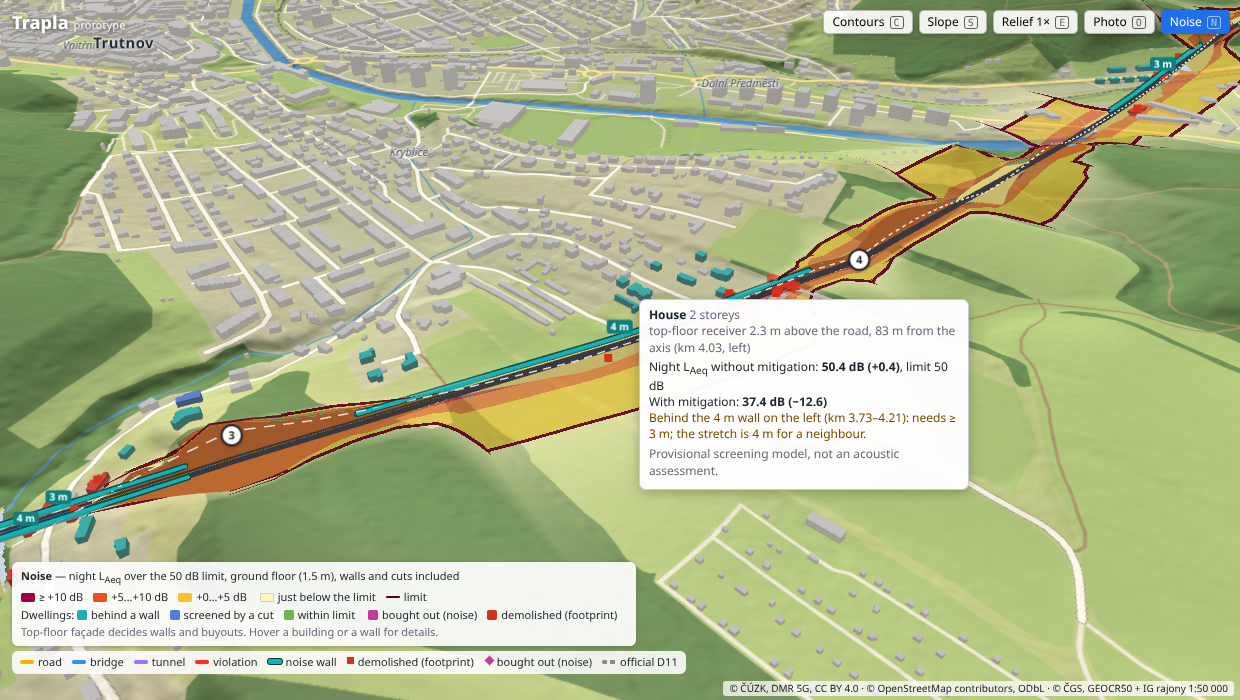
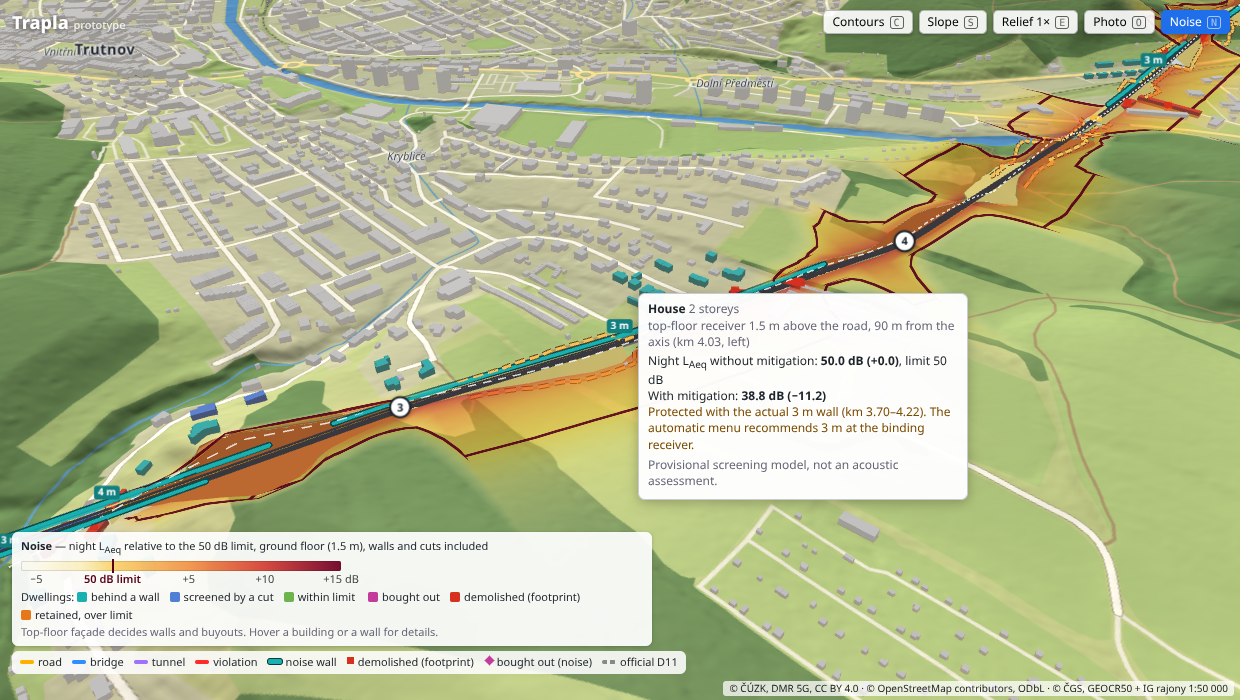
Noise view: continuous colour ramp relative to the limit (transparent −6 dB → yellow → orange → deep red +15 dB, per pixel) with one crisp limit contour; gradient legend bar with dB ticks; neutral help wording; screenshots 28–29

diff --git a/src/render/noise.ts b/src/render/noise.ts
@@ -1,5 +1,5 @@
-// Noise view (key N): the road's ground-floor noise footprint as a translucent band in steps over the
-// limit, dwellings coloured by their noise outcome, wall height labels, a legend, and hover details.
+// Noise view (key N): the road's ground-floor noise footprint as a translucent band, continuously shaded
+// by the level relative to the limit (with one crisp contour on the limit itself), dwellings coloured by their noise outcome, wall height labels, a legend, and hover details.
 // Everything comes from Result.noise (computed in the worker by the cost model's own calculator);
 // the main thread only draws. Hover over a noise wall works with the view off too.
 
@@ -15,9 +15,15 @@ import type { View } from './view';
 
 /** building colours (sRGB) by noise outcome; walls / buyouts / demolitions match their map symbols */
 export const NOISE_COLORS = { wall: 0x18b0b0, cut: 0x4f7fd6, ok: 0x6fb34f, bought: 0xc43c9b, demolished: 0xd7301f };
-/** band steps, dB over the limit (ground-floor receivers), and how far below the limit it fades out */
-const STEPS: [number, string][] = [[10, '#9e0142'], [5, '#e8501e'], [0, '#f8c22c']];
-const FADE = { db: 6, color: '#fff4c2' };
+/** band colour ramp: [dB relative to the limit (ground-floor receivers), colour, opacity], interpolated
+ * per pixel; transparent at the first stop (where the worker's footprint fades out), clamped past the last */
+const RAMP: [number, string, number][] = [
+  [-6, '#fff4c2', 0], [-2, '#fbe27a', 0.32], [0, '#f8c22c', 0.48], [5, '#ee7a1c', 0.56], [10, '#d0281e', 0.62], [15, '#6e0026', 0.7],
+];
+/** limit contour colour */
+const LIMIT_LINE = '#590019';
+/** legend tick positions, dB relative to the limit */
+const TICKS = [-5, 0, 5, 10, 15];
 
 // raw sRGB numbers: the ShaderMaterial writes them to the canvas without colour management
 const glsl = (c: string) => { const k = new THREE.Color().setStyle(c, THREE.LinearSRGBColorSpace); return `vec3(${k.r.toFixed(3)}, ${k.g.toFixed(3)}, ${k.b.toFixed(3)})`; };
@@ -121,19 +127,23 @@ export class NoiseLayer {
     g.setAttribute('db', new THREE.BufferAttribute(db, 1));
     g.setIndex(idx);
     g.computeBoundingSphere();
-    const steps = STEPS.map(([t, c]) => `if (vDb >= ${t.toFixed(1)}) c = vec4(${glsl(c)}, 0.55);`).join('\n        else ');
+    const stop = (k: number) => `vec4(${glsl(RAMP[k][1])}, ${RAMP[k][2].toFixed(3)})`;
+    const ramp = RAMP.slice(1).map(([t], k) => `if (d < ${t.toFixed(1)}) return mix(${stop(k)}, ${stop(k + 1)}, (d - ${RAMP[k][0].toFixed(1)}) / ${(t - RAMP[k][0]).toFixed(1)});`)
+      .join('\n          ');
     const mat = new THREE.ShaderMaterial({
       vertexShader: `attribute float db; varying float vDb;
         void main() { vDb = db; gl_Position = projectionMatrix * modelViewMatrix * vec4(position, 1.0); }`,
-      // colour steps of the interpolated level; a dark line on the limit itself
+      // continuous ramp of the per-pixel interpolated level; one anti-aliased dark line on the limit itself
       fragmentShader: `varying float vDb;
+        vec4 ramp(float d) {
+          ${ramp}
+          return ${stop(RAMP.length - 1)};
+        }
         void main() {
-          vec4 c;
-          ${steps}
-          else if (vDb >= -${FADE.db.toFixed(1)}) c = vec4(${glsl(FADE.color)}, 0.5 * (1.0 + vDb / ${FADE.db.toFixed(1)}));
-          else discard;
+          if (vDb < ${RAMP[0][0].toFixed(1)}) discard;
+          vec4 c = ramp(vDb);
           float w = abs(vDb) / max(fwidth(vDb), 1e-4);
-          if (w < 1.2) c = vec4(0.35, 0.0, 0.1, 0.9);
+          c = mix(c, vec4(${glsl(LIMIT_LINE)}, 0.9), 1.0 - smoothstep(0.7, 1.4, w));
           gl_FragColor = c;
         }`,
       transparent: true, depthWrite: false, side: THREE.DoubleSide,
@@ -150,10 +160,14 @@ export class NoiseLayer {
     const period = fp?.controlling ?? 'night', limit = fp?.limit ?? NOISE.limitNightDb;
     const sw = (c: string, extra = '') => `<i style="background:${c};${extra}"></i>`;
     const b = (c: number, label: string) => `<span>${sw(`#${c.toString(16).padStart(6, '0')}`, 'width:10px;height:10px')}${label}</span>`;
+    // the bar shows the ramp as drawn over a light map: colour at its opacity over white
+    const lo = RAMP[0][0], hi = RAMP[RAMP.length - 1][0], at = (t: number) => ((t - lo) / (hi - lo)) * 100;
+    const rgba = (c: string, a: number) => { const k = new THREE.Color().setStyle(c, THREE.LinearSRGBColorSpace); return `rgba(${Math.round(k.r * 255)},${Math.round(k.g * 255)},${Math.round(k.b * 255)},${a})`; };
+    const bar = `linear-gradient(to right, ${RAMP.map(([t, c, a]) => `${rgba(c, Math.min(1, a * 1.35))} ${at(t).toFixed(1)}%`).join(', ')})`;
+    const ticks = TICKS.map((t) => `<em style="left:${at(t).toFixed(1)}%"${t === 0 ? ' class="lim"' : ''}>${t === 0 ? `${limit} dB limit` : `${t > 0 ? '+' : '−'}${Math.abs(t)}${t === hi ? ' dB' : ''}`}</em>`).join('');
     this.legend.innerHTML = `
-      <div><b>Noise</b> — ${period} L<sub>Aeq</sub> over the ${limit} dB limit, ground floor (1.5 m), walls and cuts included</div>
-      <div>${STEPS.map(([t, c], k) => `<span>${sw(c)}${k ? `+${t}…+${STEPS[k - 1][0]}` : `≥ +${t}`} dB</span>`).join('')}
-        <span>${sw(FADE.color, 'box-shadow:inset 0 0 0 1px #d8cf9c')}just below the limit</span><span><i class="lim"></i>limit</span></div>
+      <div><b>Noise</b> — ${period} L<sub>Aeq</sub> relative to the ${limit} dB limit, ground floor (1.5 m), walls and cuts included</div>
+      <div class="ramp"><div class="bar" style="background:${bar}"><u style="left:${at(0).toFixed(1)}%"></u></div><div class="ticks">${ticks}</div></div>
       <div>Dwellings: ${b(NOISE_COLORS.wall, 'behind a wall')}${b(NOISE_COLORS.cut, 'screened by a cut')}${b(NOISE_COLORS.ok, 'within limit')}
         ${b(NOISE_COLORS.bought, 'bought out')}${b(NOISE_COLORS.demolished, 'demolished (footprint)')}${b(0xe87718, 'retained, over limit')}</div>
       <div class="hint">Top-floor façade decides walls and buyouts. Hover a building or a wall for details.</div>`;

diff --git a/src/ui/hud.ts b/src/ui/hud.ts
@@ -114,7 +114,7 @@ export class Hud {
           <li><b>Grade line Auto</b>: coarse-to-fine dynamic programming on ~250 m knots seeks a low-cost profile with gradient/curve limits, crossing clearances and cut/fill balancing; it is an approximation, not a guaranteed global optimum. <b>Manual</b> freezes the current grade line. Dragging a profile point or double-clicking to add one also switches to Manual; right-click deletes, wheel zooms. Auto replaces manual vertical edits but keeps structure overrides.</li>
           <li>Select a profile stretch, then <kbd>B</kbd> bridge, <kbd>T</kbd> tunnel, <kbd>E</kbd> earthwork, <kbd>C</kbd> clear override (automatic choice). Repaint any subrange to edit or erase it; Undo restores it. Manual ranges stay at the same kilometre positions when you reroute. Coloured dotted map overlays and labelled profile marks show them; invalid choices remain visible and produce violations.</li>
           <li>Why is a stretch expensive? <b>Hover</b> the profile for the cost split there; <b>drag</b> in the cost strip (or <kbd>Shift</kbd>+drag) to select a stretch, <b>click</b> a curve / tangent in the band above it; <kbd>Esc</kbd> = whole route</li>
-          <li>Who gets a wall, who is bought out? <kbd>N</kbd> = noise view: the road's noise over the limit, dwellings coloured by outcome; <b>hover</b> a building or wall for the levels and the reason</li>
+          <li>Noise protection: <kbd>N</kbd> = noise view: the road's noise level relative to the limit, dwellings coloured by outcome (wall, cut, bought out); <b>hover</b> a building or wall for the levels and the reason</li>
         </ul>
         <label class="exag">Vertical exaggeration <select id="exag"><option value="1">1×</option><option value="1.5">1.5×</option><option value="2">2×</option><option value="3">3×</option></select></label>
       </section>`;

diff --git a/src/style.css b/src/style.css
@@ -98,8 +98,13 @@ kbd { border: 1px solid #bbb; border-radius: 3px; padding: 0 3px; font-size: 11p
 #noise-legend { position: absolute; left: 12px; bottom: 54px; max-width: min(640px, calc(100% - 24px)); background: rgba(255,255,255,0.92); border-radius: 6px; padding: 5px 9px; font-size: 11px; line-height: 1.6; pointer-events: none; box-shadow: 0 1px 4px rgba(0,0,0,0.2); }
 #noise-legend span { margin-right: 10px; white-space: nowrap; }
 #noise-legend i { display: inline-block; width: 14px; height: 9px; border-radius: 2px; vertical-align: -1px; margin-right: 4px; }
-#noise-legend i.lim { height: 2px; background: #590019; vertical-align: 3px; }
 #noise-legend .hint { color: #667; }
+#noise-legend .ramp { position: relative; width: 320px; margin: 3px 0 2px; }
+#noise-legend .ramp .bar { position: relative; height: 10px; border-radius: 2px; box-shadow: inset 0 0 0 1px rgba(0,0,0,0.12); }
+#noise-legend .ramp .bar u { position: absolute; top: -2px; bottom: -2px; width: 2px; margin-left: -1px; background: #590019; }
+#noise-legend .ramp .ticks { position: relative; height: 15px; }
+#noise-legend .ramp em { position: absolute; top: 0; transform: translateX(-50%); font-style: normal; color: #444; white-space: nowrap; line-height: 15px; }
+#noise-legend .ramp em.lim { color: #590019; font-weight: 600; }
 .wall-label { font-size: 10px; font-weight: 700; color: #fff; background: #127f7f; padding: 0 4px; border-radius: 3px; margin: -18px 0 0 -10px; pointer-events: none; white-space: nowrap; }
 #legend i.dash { background: repeating-linear-gradient(90deg, #888 0 5px, transparent 5px 8px); }
 #attrib { position: absolute; right: 6px; bottom: 4px; font-size: 10px; color: #222; background: rgba(255,255,255,0.75); padding: 1px 6px; border-radius: 3px; }

diff --git a/README.md b/README.md
@@ -130,8 +130,9 @@ The headless scripts expect Chromium at `/usr/bin/chromium` (override with `CHRO
   diamonds mark noise buyouts. The HUD and profile tooltip explain both; assumptions and limitations are in
   `PLAN.md`.
 - **Noise view** <kbd>N</kbd>: a band along the road shows the controlling-period level (night, for the scenario
-  traffic) over its limit at ground-floor receivers (1.5 m above the real ground) in steps of ≥ +10, +5…+10,
-  0…+5 dB, a dark line on the limit itself and a pale fade 0…−6 dB below it — computed in the worker by the
+  traffic) relative to its limit at ground-floor receivers (1.5 m above the real ground), continuously shaded
+  (transparent 6 dB below the limit → yellow at the limit → orange → deep red at +15 dB and above, interpolated
+  per pixel), with one thin dark line on the limit itself — computed in the worker by the
   same calculator as the bill, with the chosen walls and the cut-edge screening (per 30 m station and side, a
   12-sample profile across the road; ≈ +1.5 ms per recompute). Dwellings are coloured by outcome: behind a wall,
   screened by a cut, within the limit, bought out for noise, demolished in the footprint (other buildings turn
